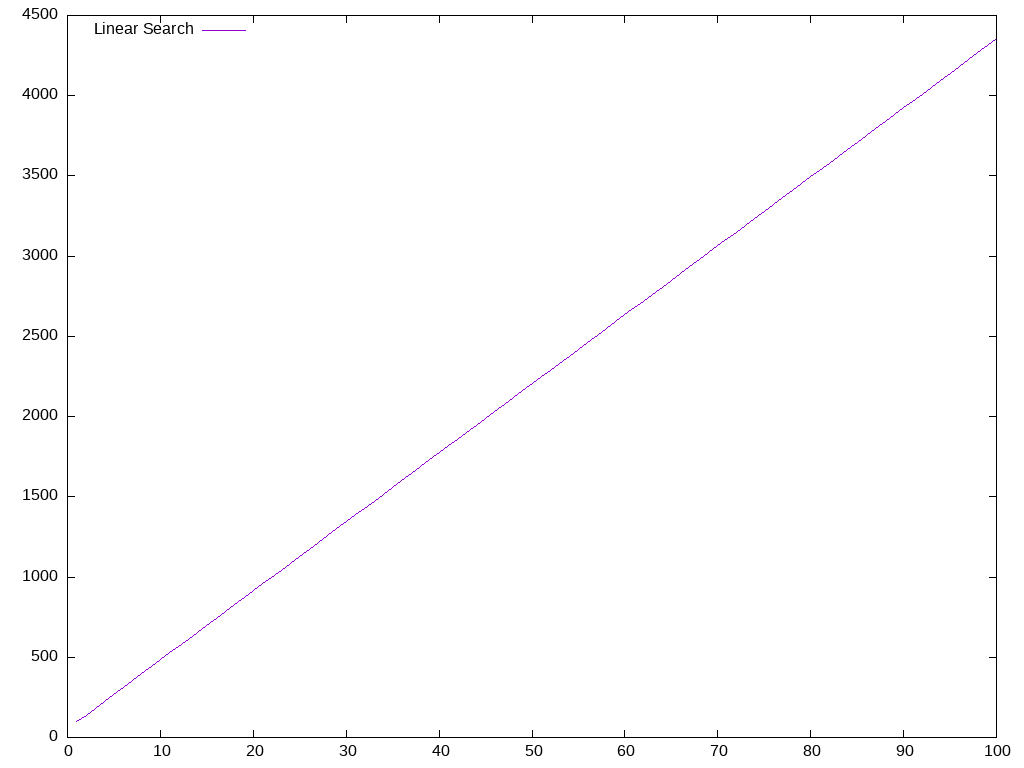
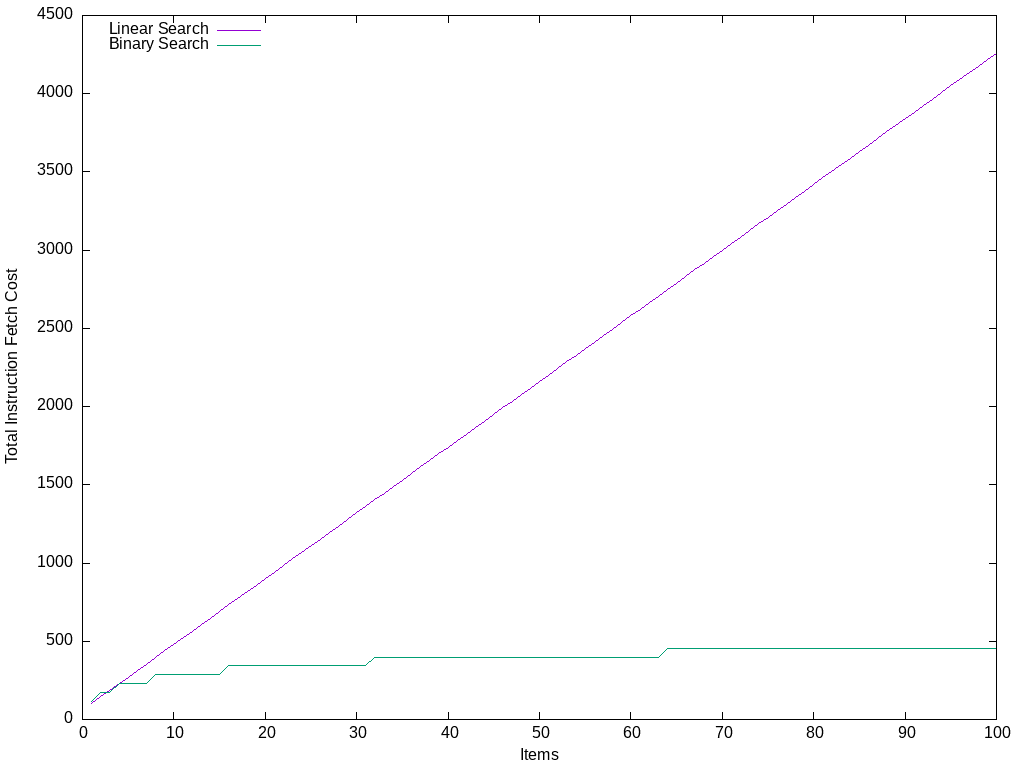
Implement binary search

diff --git a/src/test/unit/binary-search-test.c b/src/test/unit/binary-search-test.c
@@ -1,0 +1,142 @@
+#include "greatest.h"
+
+#include "binary-search.h"
+
+static const int              ITEMS[]              = { 0, 1, 2, 3, 4, 5, 6, 7, 8, 9 };
+static const int *            ITEMS_INVALID        = NULL;
+static const size_t           ITEMS_COUNT          = 10;
+static const int *            ITEM_INVALID         = NULL;
+static const int              ITEM_FOUND           = 3;
+static const int              ITEM_NOT_FOUND       = 10;
+static const size_t           ITEM_SIZE            = sizeof(int);
+static const size_t           ITEM_SIZE_INVALID    = 0;
+static const ordering_compare ITEM_COMPARE_INVALID = NULL;
+
+#pragma GCC diagnostic push
+#pragma GCC diagnostic ignored "-Wpedantic"
+static const int              ITEMS_EMPTY[0]       = { };
+static const size_t           ITEMS_EMPTY_COUNT    = 0;
+#pragma GCC diagnostic pop
+
+#include <stdio.h>
+
+ordering item_compare(const void *item_expected, const void *item_current) {
+    const int *item_expected_int = (const int *)item_expected;
+    const int *item_current_int  = (const int *)item_current;
+
+    printf("%d == %d\n", *item_expected_int, *item_current_int);
+
+    if (*item_expected_int == *item_current_int) {
+        return EQ;
+    }
+
+    if (*item_expected_int > *item_current_int) {
+        return GT;
+    }
+
+    return LT;
+}
+
+TEST binary_search__if_items_is_invalid__returns_error_and_does_not_assign_item_index(void) {
+    size_t item_index = -1;
+
+    status status = binary_search(ITEMS_INVALID, ITEMS_COUNT, &ITEM_FOUND, ITEM_SIZE, &item_compare, &item_index);
+
+    ASSERT_EQ(ITEMS_INVALID_ERROR, status);
+    ASSERT_EQ(-1, item_index);
+    PASS();
+}
+
+TEST binary_search__if_item_is_invalid__returns_error_and_does_not_assign_item_index(void) {
+    size_t item_index = -1;
+
+    status status = binary_search(ITEMS, ITEMS_COUNT, ITEM_INVALID, ITEM_SIZE, &item_compare, &item_index);
+
+    ASSERT_EQ(ITEM_INVALID_ERROR, status);
+    ASSERT_EQ(-1, item_index);
+    PASS();
+}
+
+TEST binary_search__if_item_size_is_invalid__returns_error_and_does_not_assign_item_index(void) {
+    size_t item_index = -1;
+
+    status status = binary_search(ITEMS, ITEMS_COUNT, &ITEM_FOUND, ITEM_SIZE_INVALID, &item_compare, &item_index);
+
+    ASSERT_EQ(ITEM_SIZE_INVALID_ERROR, status);
+    ASSERT_EQ(-1, item_index);
+    PASS();
+}
+
+TEST binary_search__if_item_compare_is_invalid__returns_error_and_does_not_assign_item_index(void) {
+    size_t item_index = -1;
+
+    status status = binary_search(ITEMS, ITEMS_COUNT, &ITEM_FOUND, ITEM_SIZE, ITEM_COMPARE_INVALID, &item_index);
+
+    ASSERT_EQ(ITEM_COMPARE_INVALID_ERROR, status);
+    ASSERT_EQ(-1, item_index);
+    PASS();
+}
+
+TEST binary_search__if_item_index_is_invalid__returns_error_and_does_not_assign_item_index(void) {
+    size_t *item_index = NULL;
+
+    status status = binary_search(ITEMS, ITEMS_COUNT, &ITEM_FOUND, ITEM_SIZE, &item_compare, item_index);
+
+    ASSERT_EQ(ITEM_INDEX_INVALID_ERROR, status);
+    ASSERT_EQ(NULL, item_index);
+    PASS();
+}
+
+TEST binary_search__if_items_is_empty__returns_error_and_does_not_assign_item_index(void) {
+    size_t item_index = -1;
+
+    status status = binary_search(ITEMS_EMPTY, ITEMS_EMPTY_COUNT, &ITEM_FOUND, ITEM_SIZE, &item_compare, &item_index);
+
+    ASSERT_EQ(ITEM_NOT_FOUND_ERROR, status);
+    ASSERT_EQ(-1, item_index);
+    PASS();
+}
+
+TEST binary_search__if_item_is_found__returns_success_and_assigns_item_index(void) {
+    for (int i = 0; i < ITEMS_COUNT; i++) {
+        size_t item_index = -1;
+
+        status status = binary_search(ITEMS, ITEMS_COUNT, &ITEMS[i], ITEM_SIZE, &item_compare, &item_index);
+
+        ASSERT_EQ(status, SUCCESS);
+        ASSERT_EQ(i, item_index);
+    }
+
+    PASS();
+}
+
+TEST binary_search__if_item_is_not_found__returns_error_and_does_not_assign_item_index(void) {
+    size_t item_index = -1;
+
+    status status = binary_search(ITEMS, ITEMS_COUNT, &ITEM_NOT_FOUND, ITEM_SIZE, &item_compare, &item_index);
+
+    ASSERT_EQ(ITEM_NOT_FOUND_ERROR, status);
+    ASSERT_EQ(-1, item_index);
+    PASS();
+}
+
+SUITE(binary_search_suite) {
+    RUN_TEST(binary_search__if_items_is_invalid__returns_error_and_does_not_assign_item_index);
+    RUN_TEST(binary_search__if_items_is_empty__returns_error_and_does_not_assign_item_index);
+    RUN_TEST(binary_search__if_item_is_invalid__returns_error_and_does_not_assign_item_index);
+    RUN_TEST(binary_search__if_item_size_is_invalid__returns_error_and_does_not_assign_item_index);
+    RUN_TEST(binary_search__if_item_compare_is_invalid__returns_error_and_does_not_assign_item_index);
+    RUN_TEST(binary_search__if_item_index_is_invalid__returns_error_and_does_not_assign_item_index);
+    RUN_TEST(binary_search__if_item_is_found__returns_success_and_assigns_item_index);
+    RUN_TEST(binary_search__if_item_is_not_found__returns_error_and_does_not_assign_item_index);
+}
+
+GREATEST_MAIN_DEFS();
+
+int main(int argc, char **argv) {
+    GREATEST_MAIN_BEGIN();
+
+    RUN_SUITE(binary_search_suite);
+
+    GREATEST_MAIN_END();
+}

diff --git a/src/main/binary-search.c b/src/main/binary-search.c
@@ -1,0 +1,67 @@
+#include "binary-search.h"
+
+#include <stddef.h>
+#include <stdint.h>
+#include <stdbool.h>
+
+status binary_search(
+    const void *           items,
+    const size_t           items_count,
+    const void *           item,
+    const size_t           item_size,
+    const ordering_compare item_compare,
+    size_t *               item_index
+) {
+    if (items == NULL) {
+        return ITEMS_INVALID_ERROR;
+    }
+
+    if (item == NULL) {
+        return ITEM_INVALID_ERROR;
+    }
+
+    if (item_size == 0) {
+        return ITEM_SIZE_INVALID_ERROR;
+    }
+
+    if (item_compare == NULL) {
+        return ITEM_COMPARE_INVALID_ERROR;
+    }
+
+    if (item_index == NULL) {
+        return ITEM_INDEX_INVALID_ERROR;
+    }
+
+    if (items_count == 0) {
+        return ITEM_NOT_FOUND_ERROR;
+    }
+
+    const uint8_t *items_octets = (const uint8_t *)items;
+
+    size_t item_index_min = 0;
+    size_t item_index_max  = items_count - 1;
+
+    while (item_index_min <= item_index_max) {
+        const size_t item_index_mid = item_index_min + ((item_index_max - item_index_min) / 2);
+
+        const void *item_mid = items_octets + item_size * item_index_mid;
+
+        const ordering ordering = item_compare(item, item_mid);
+
+        if (ordering == EQ) {
+            *item_index = item_index_mid;
+
+            return SUCCESS;
+        }
+
+        if (ordering == GT) {
+            item_index_min = item_index_mid + 1;
+        }
+
+        if (ordering == LT) {
+            item_index_max = item_index_mid - 1;
+        }
+    }
+
+    return ITEM_NOT_FOUND_ERROR;
+}

diff --git a/src/test/perf/binary-search-test.c b/src/test/perf/binary-search-test.c
@@ -1,0 +1,50 @@
+#include <stdlib.h>
+#include <valgrind/callgrind.h>
+#include <assert.h>
+
+#include "binary-search.h"
+
+ordering item_compare(const void *item_expected, const void *item_current) {
+    const long int *item_expected_long_int = (const long int *)item_expected;
+    const long int *item_current_long_int  = (const long int *)item_current;
+
+    if (*item_expected_long_int == *item_current_long_int) {
+        return EQ;
+    }
+
+    if (*item_expected_long_int > *item_current_long_int) {
+        return GT;
+    }
+
+    return LT;
+}
+
+int main(__attribute__((unused)) int argc, char **argv) {
+    long int   items_count = strtol(argv[1], NULL, 10);
+    size_t     item_size   = sizeof(long int);
+    long int * items       = malloc(items_count * item_size);
+    long int   item        = items_count - 1;
+    size_t     item_index  = 0;
+
+    for (long int i = 0; i < items_count; i++) {
+        items[i] = i;
+    }
+
+    CALLGRIND_START_INSTRUMENTATION;
+    CALLGRIND_TOGGLE_COLLECT;
+
+    status status = binary_search(
+            items,
+            items_count,
+            &item,
+            item_size,
+            &item_compare,
+            &item_index);
+
+    assert(status == SUCCESS);
+
+    CALLGRIND_TOGGLE_COLLECT;
+    CALLGRIND_STOP_INSTRUMENTATION;
+
+    free(items);
+}

diff --git a/src/main/binary-search.h b/src/main/binary-search.h
@@ -1,0 +1,25 @@
+#ifndef _BINARY_SEARCH_
+#define _BINARY_SEARCH_
+
+#include <stdlib.h>
+
+#include "ordering.h"
+#include "status.h"
+
+#define ITEMS_INVALID_ERROR        (ERROR | 0x00000001)
+#define ITEM_INVALID_ERROR         (ERROR | 0x00000002)
+#define ITEM_SIZE_INVALID_ERROR    (ERROR | 0x00000003)
+#define ITEM_COMPARE_INVALID_ERROR (ERROR | 0x00000004)
+#define ITEM_INDEX_INVALID_ERROR   (ERROR | 0x00000005)
+#define ITEM_NOT_FOUND_ERROR       (ERROR | 0x00000006)
+
+status binary_search(
+    const void *           items,
+    const size_t           items_count,
+    const void *           item,
+    const size_t           item_size,
+    const ordering_compare item_compare,
+    size_t *               item_index
+);
+
+#endif // _BINARY_SEARCH_

diff --git a/README.md b/README.md
@@ -1,0 +1,20 @@
+<p align="center">
+    <img src="resource/al-khwarizmi.png" alt="al-Khwarizmi" width= "256" />
+</p>
+
+# al-Khwarizmi
+
+The project's name is a tribute to [Muḥammad ibn Mūsā al-Khwārizmī](https://en.wikipedia.org/wiki/Muhammad_ibn_Musa_al-Khwarizmi), whose name gave rise to the word algorithm.
+Is the code worthy of a tribute? I will let you judge.
+
+This project is an implementation, in C, of the most basic algorithms.
+
+# Costs
+
+<p align="center">
+    <img src="resource/search.png" alt="Search Chart" width="800" />
+</p>
+
+# Credits
+
+By Unknown Author - http://www.muslimheritage.com/topics/default.cfm?ArticleID=631, [1], Public Domain, https://commons.wikimedia.org/w/index.php?curid=2652443
